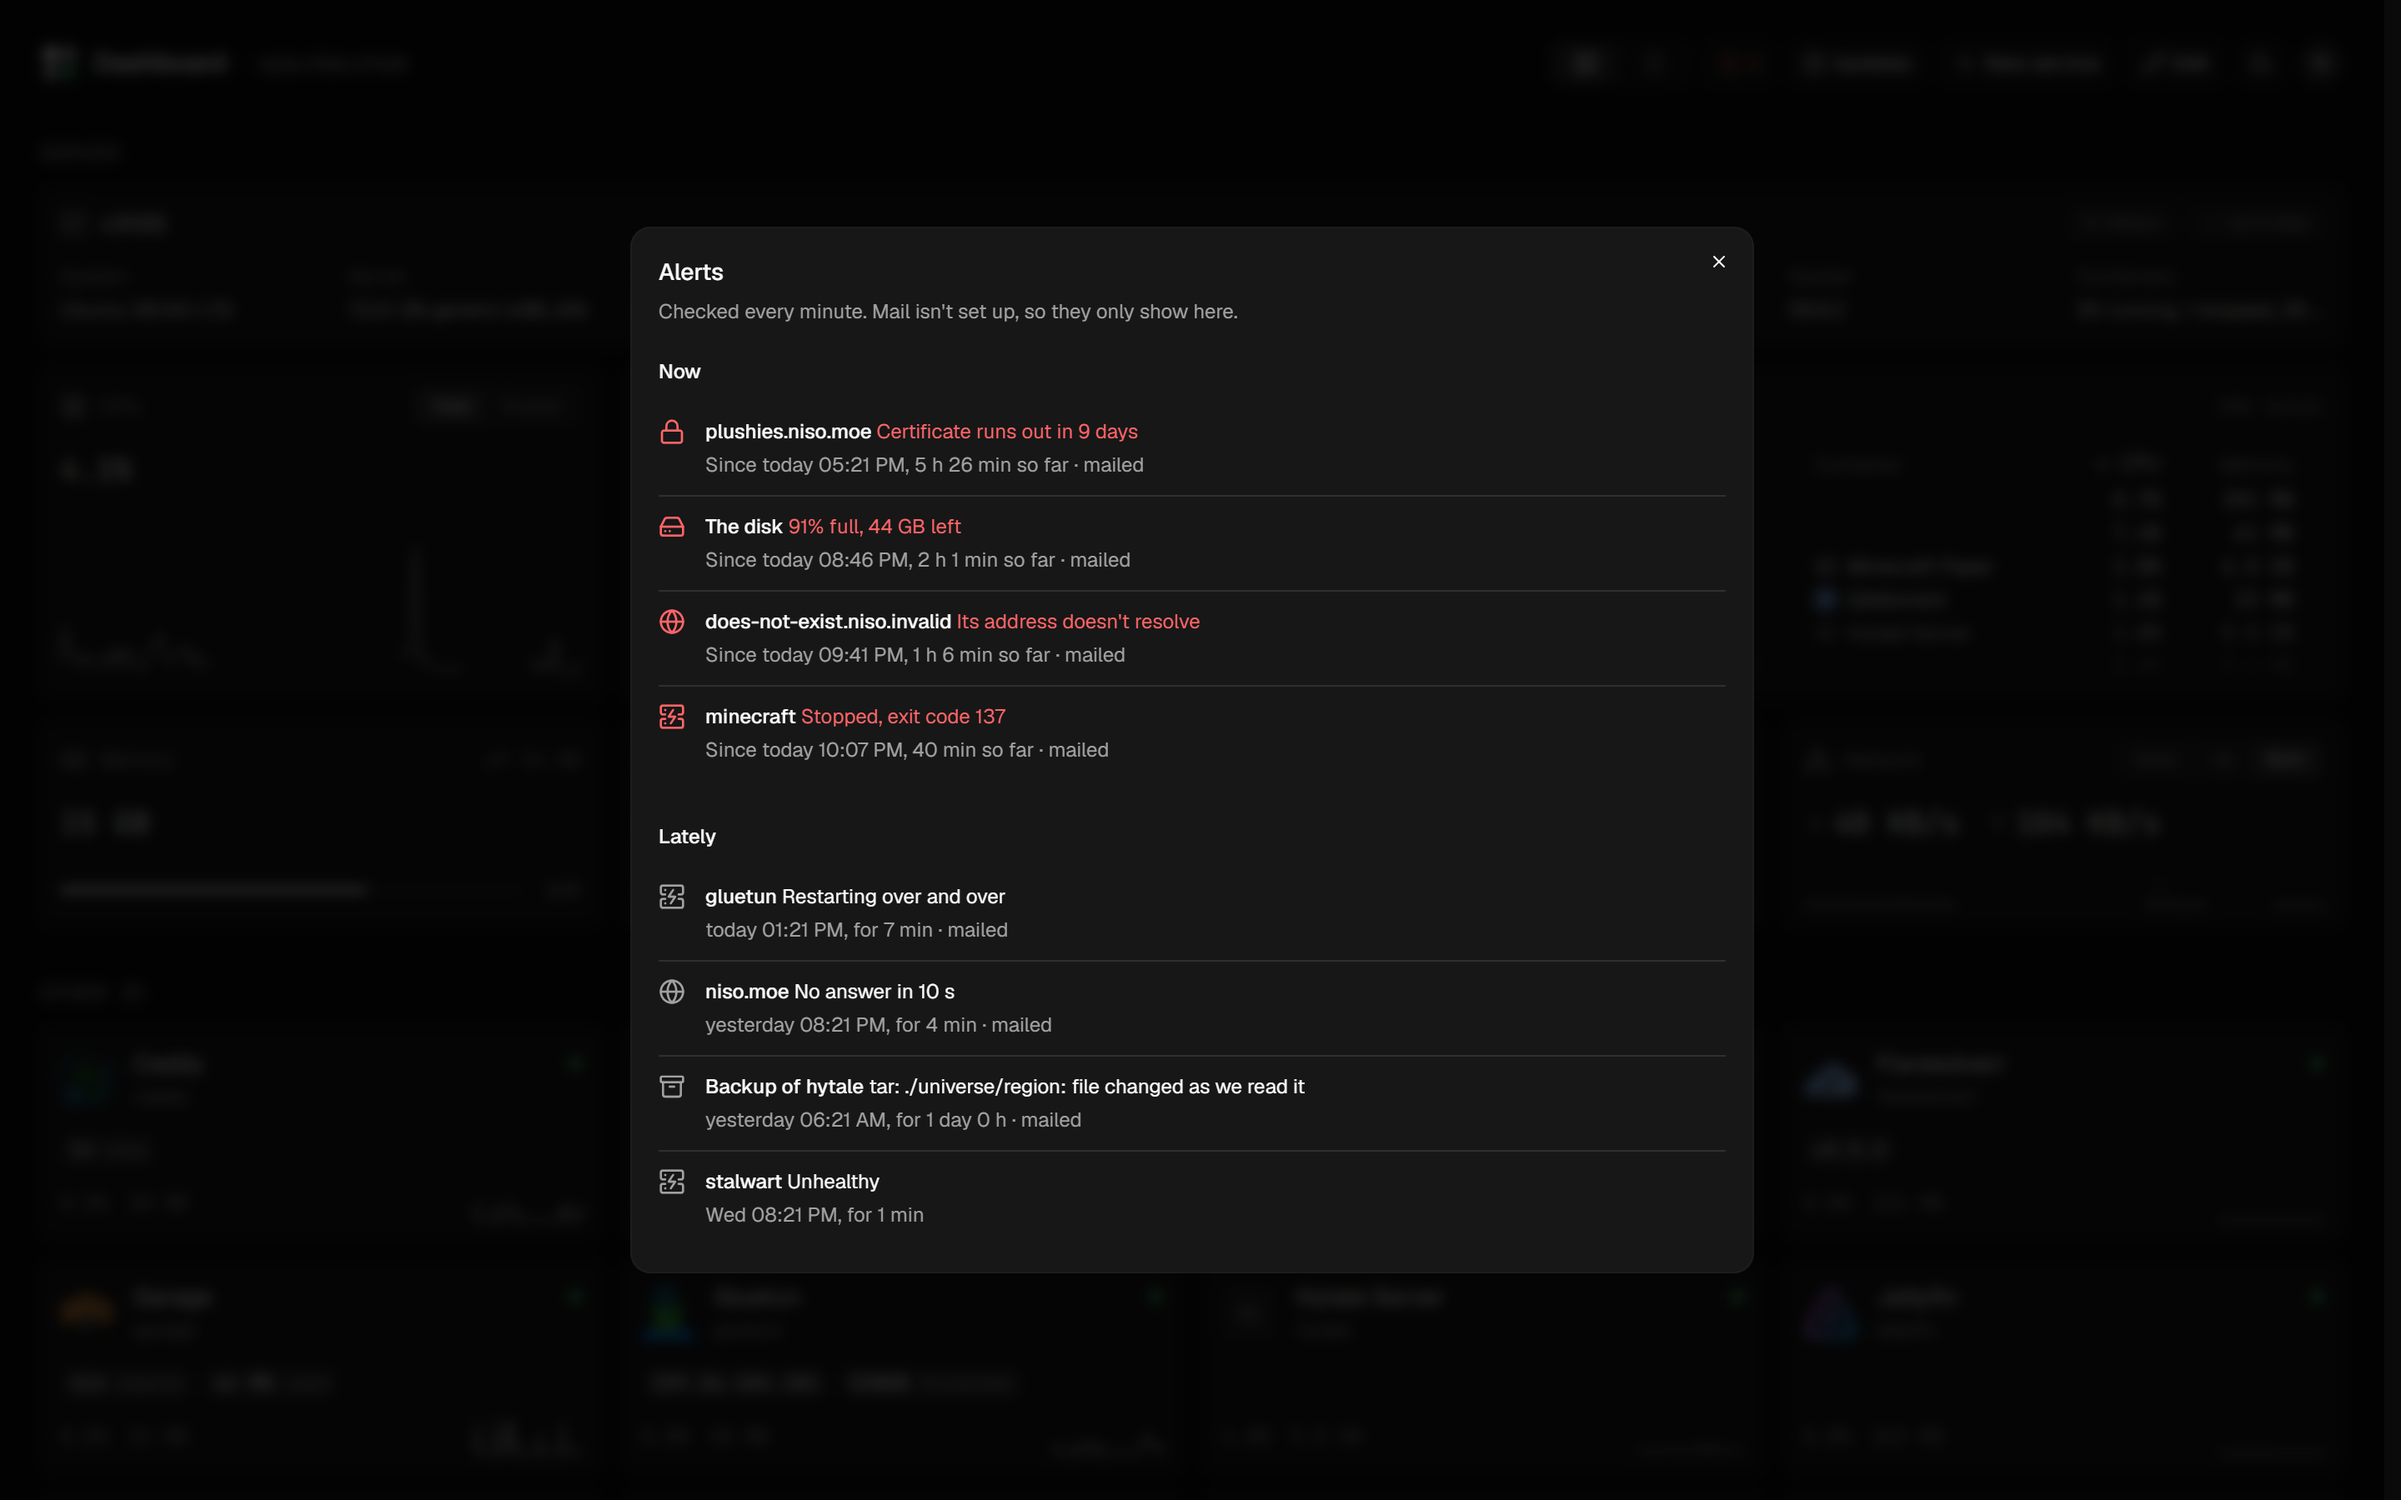
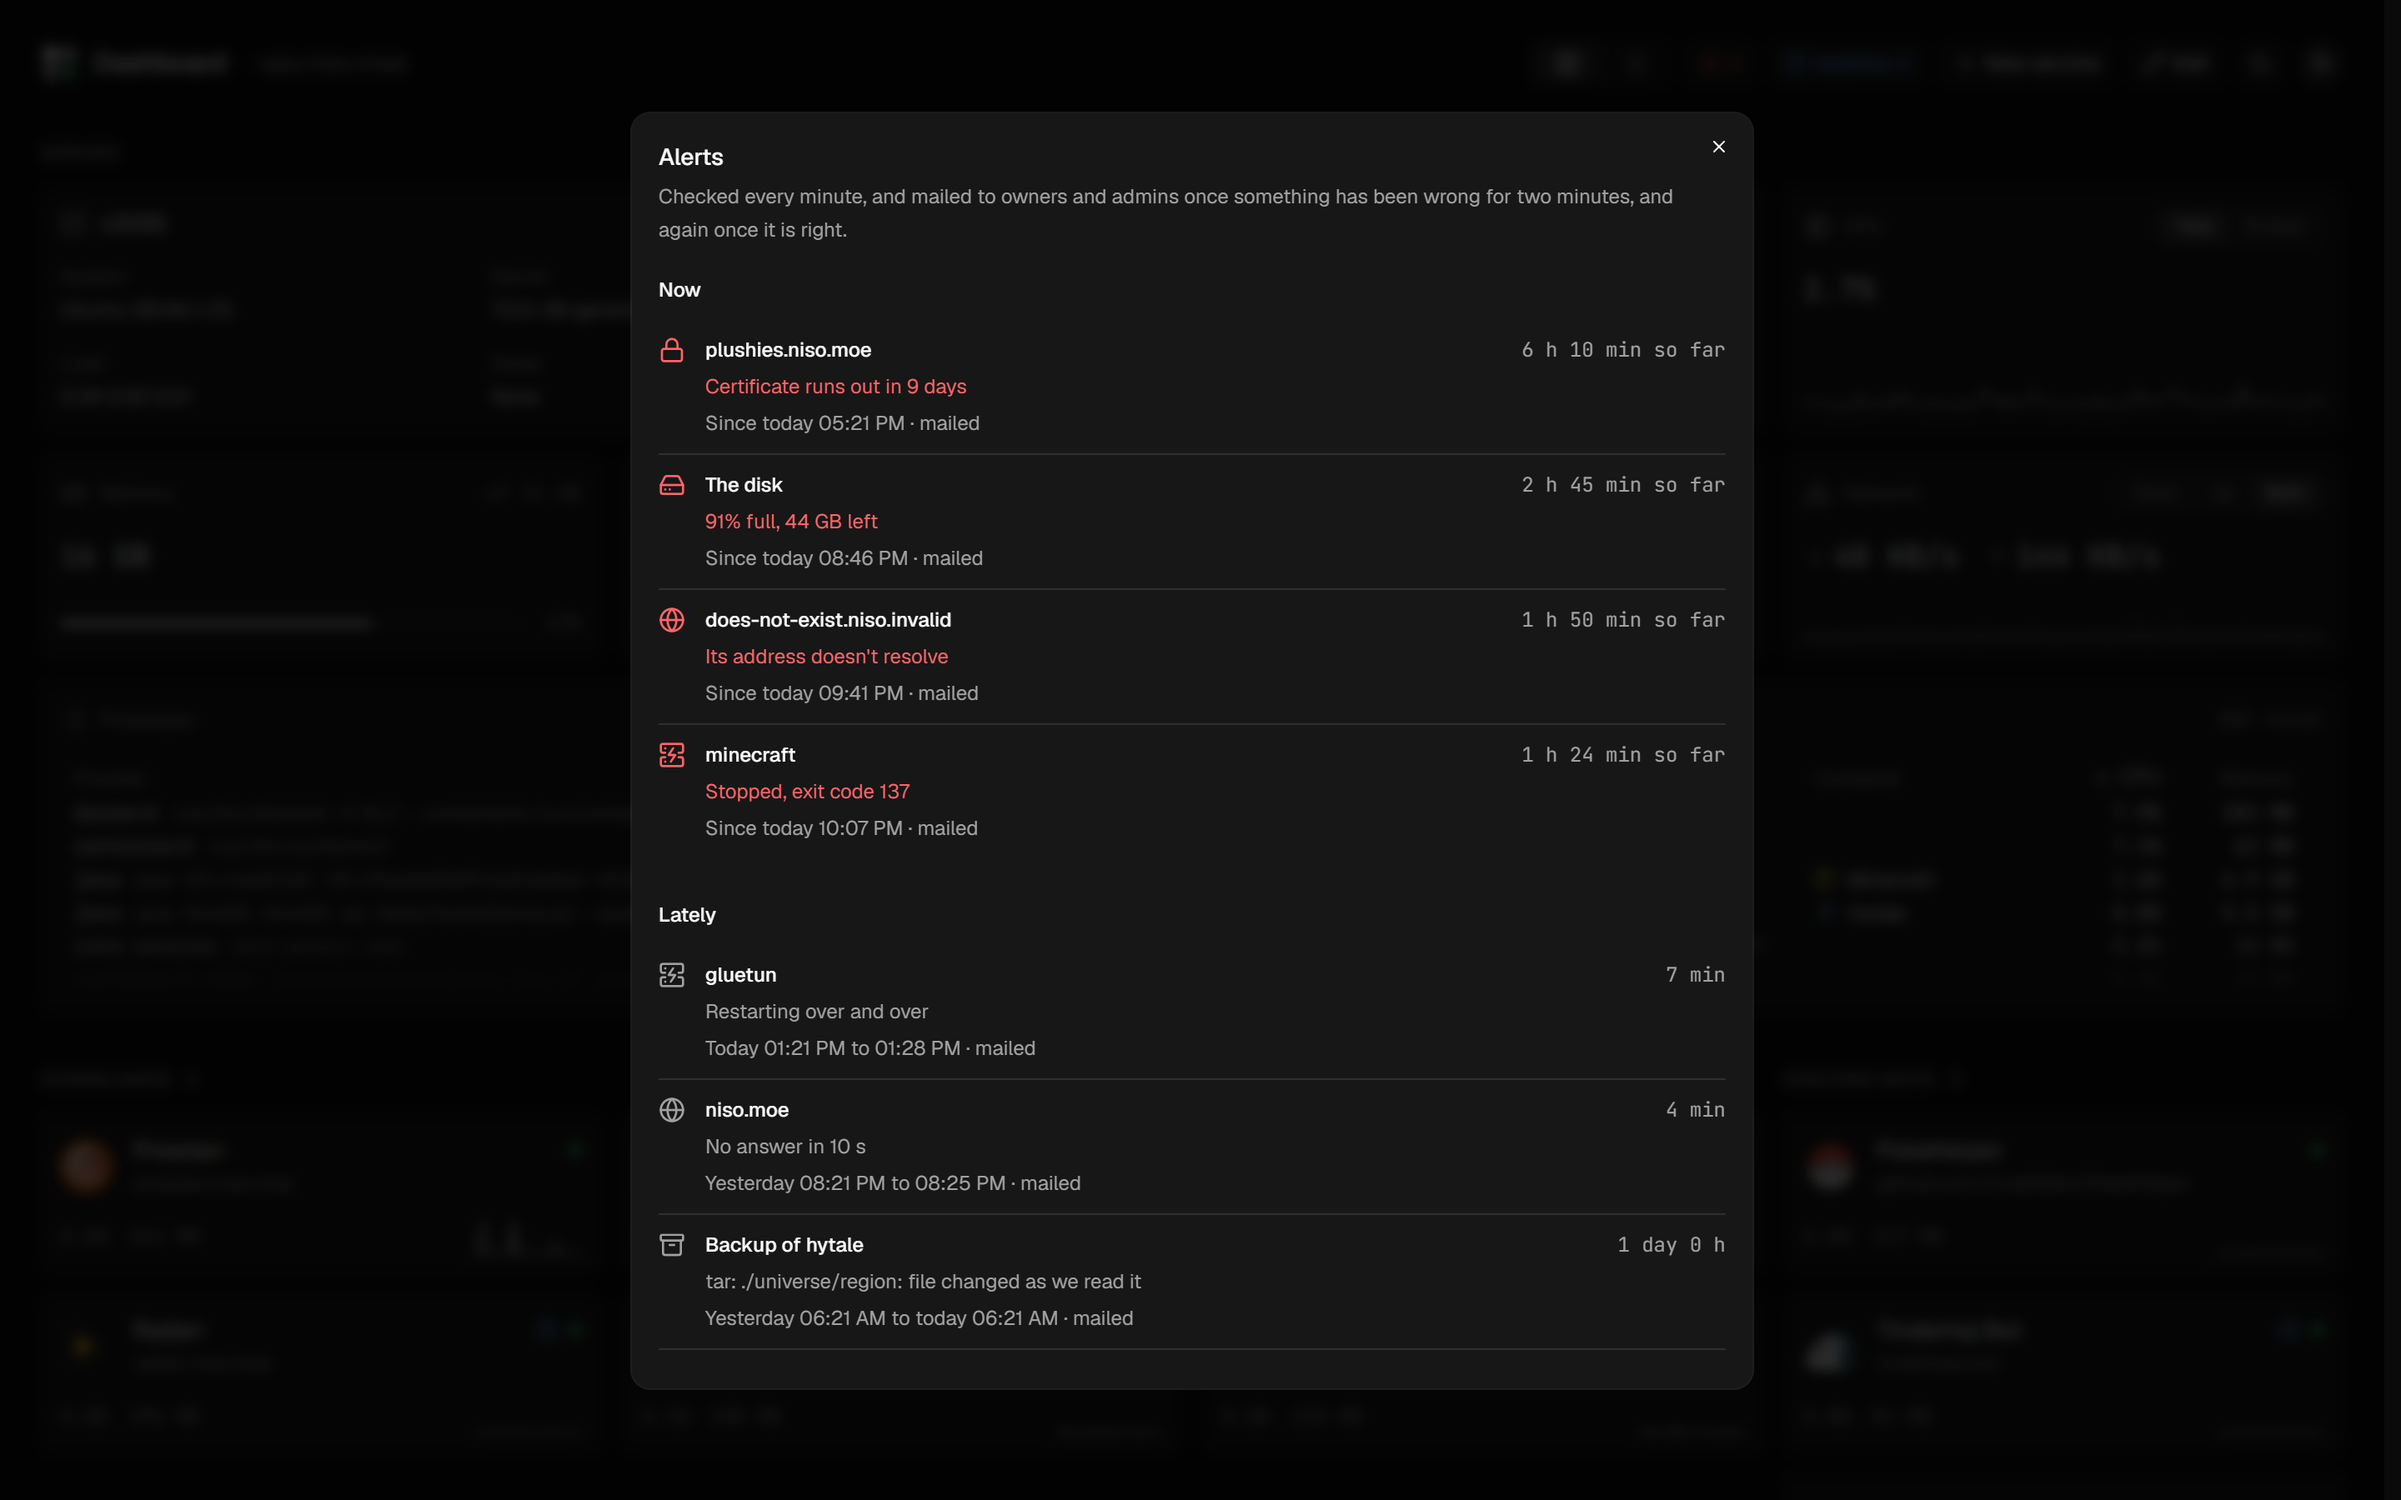
docs: every screenshot taken again of the dashboard as it is now, and new ones of updates, the server's own, History over a week, a website's uptime over a month, and three phone screens side by side; the Markdown one shows an alert, and the README says the preview shows alerts and a stack's picture

diff --git a/README.md b/README.md
@@ -64,8 +64,9 @@ what was just saved; **Rebuild** builds it again first.
 
 ### Markdown, previewed
 
-A README opens as GitHub would show it: headings, tables, task lists, and code
-blocks colored as their language is in the editor.
+A README opens as GitHub would show it: headings, tables, task lists, alerts
+such as `> [!WARNING]`, its pictures from the stack, and code blocks colored
+as their language is in the editor.
 
 ![A README previewed: headings, a table and colored code blocks](docs/screenshots/markdown.png)
 
@@ -94,10 +95,14 @@ the header lists them; each is applied on its own or all at once, following
 what Docker and Compose print, and a new major version says so before it's
 pulled.
 
+![Updates: newer images and versions for several services, a major Postgres version marked, and new commits for a bot](docs/screenshots/updates.png)
+
 The server's own Ubuntu packages are on its tile: what's waiting, security
 fixes first, what Ubuntu is still rolling out, and a restart when the system
 asks for one. An upgrade runs as a systemd job, so it carries on when Docker
 restarts with it, and the window picks it up again once Dashboard is back.
+
+![System updates: security fixes first, a kernel waiting for a restart, and what Ubuntu is still rolling out](docs/screenshots/system-updates.png)
 
 ### History and uptime
 
@@ -108,10 +113,14 @@ to the last week, and how long the disk took per read or write, where a
 stall shows. A gap in a chart is a time with no readings, as while Dashboard
 was down.
 
+![History over a week: CPU and load rising each evening, two disk stalls standing out in the disk's wait, network up on the evenings someone streams](docs/screenshots/history.png)
+
 Each website is checked once a minute too. Its window has its uptime over
 the last day, week and month, a strip of the range picked, each stretch
 green, amber or red, and its outages, when each began, how long it lasted,
 and why.
+
+![A website's uptime over a month: 99.96%, a strip with three short outages, and each listed with why](docs/screenshots/uptime.png)
 
 ### Alerts
 
@@ -152,6 +161,14 @@ Every view in either theme, as the system has it or picked by hand. The list
 puts each service on a row, filtered by group.
 
 ![The list view in the light theme, filtered to the Downloads group](docs/screenshots/list-light.png)
+
+### On a phone
+
+Everything works on a phone too: the server's tiles and every service one
+under another, the header's buttons down to their icons, with how many alerts
+and updates there are on their corners, and each window filling the screen.
+
+![On a phone: the dashboard, Minecraft's window with its CPU over the last ten minutes, and the alerts](docs/screenshots/phones.png)
 
 ## Apps it knows
 
